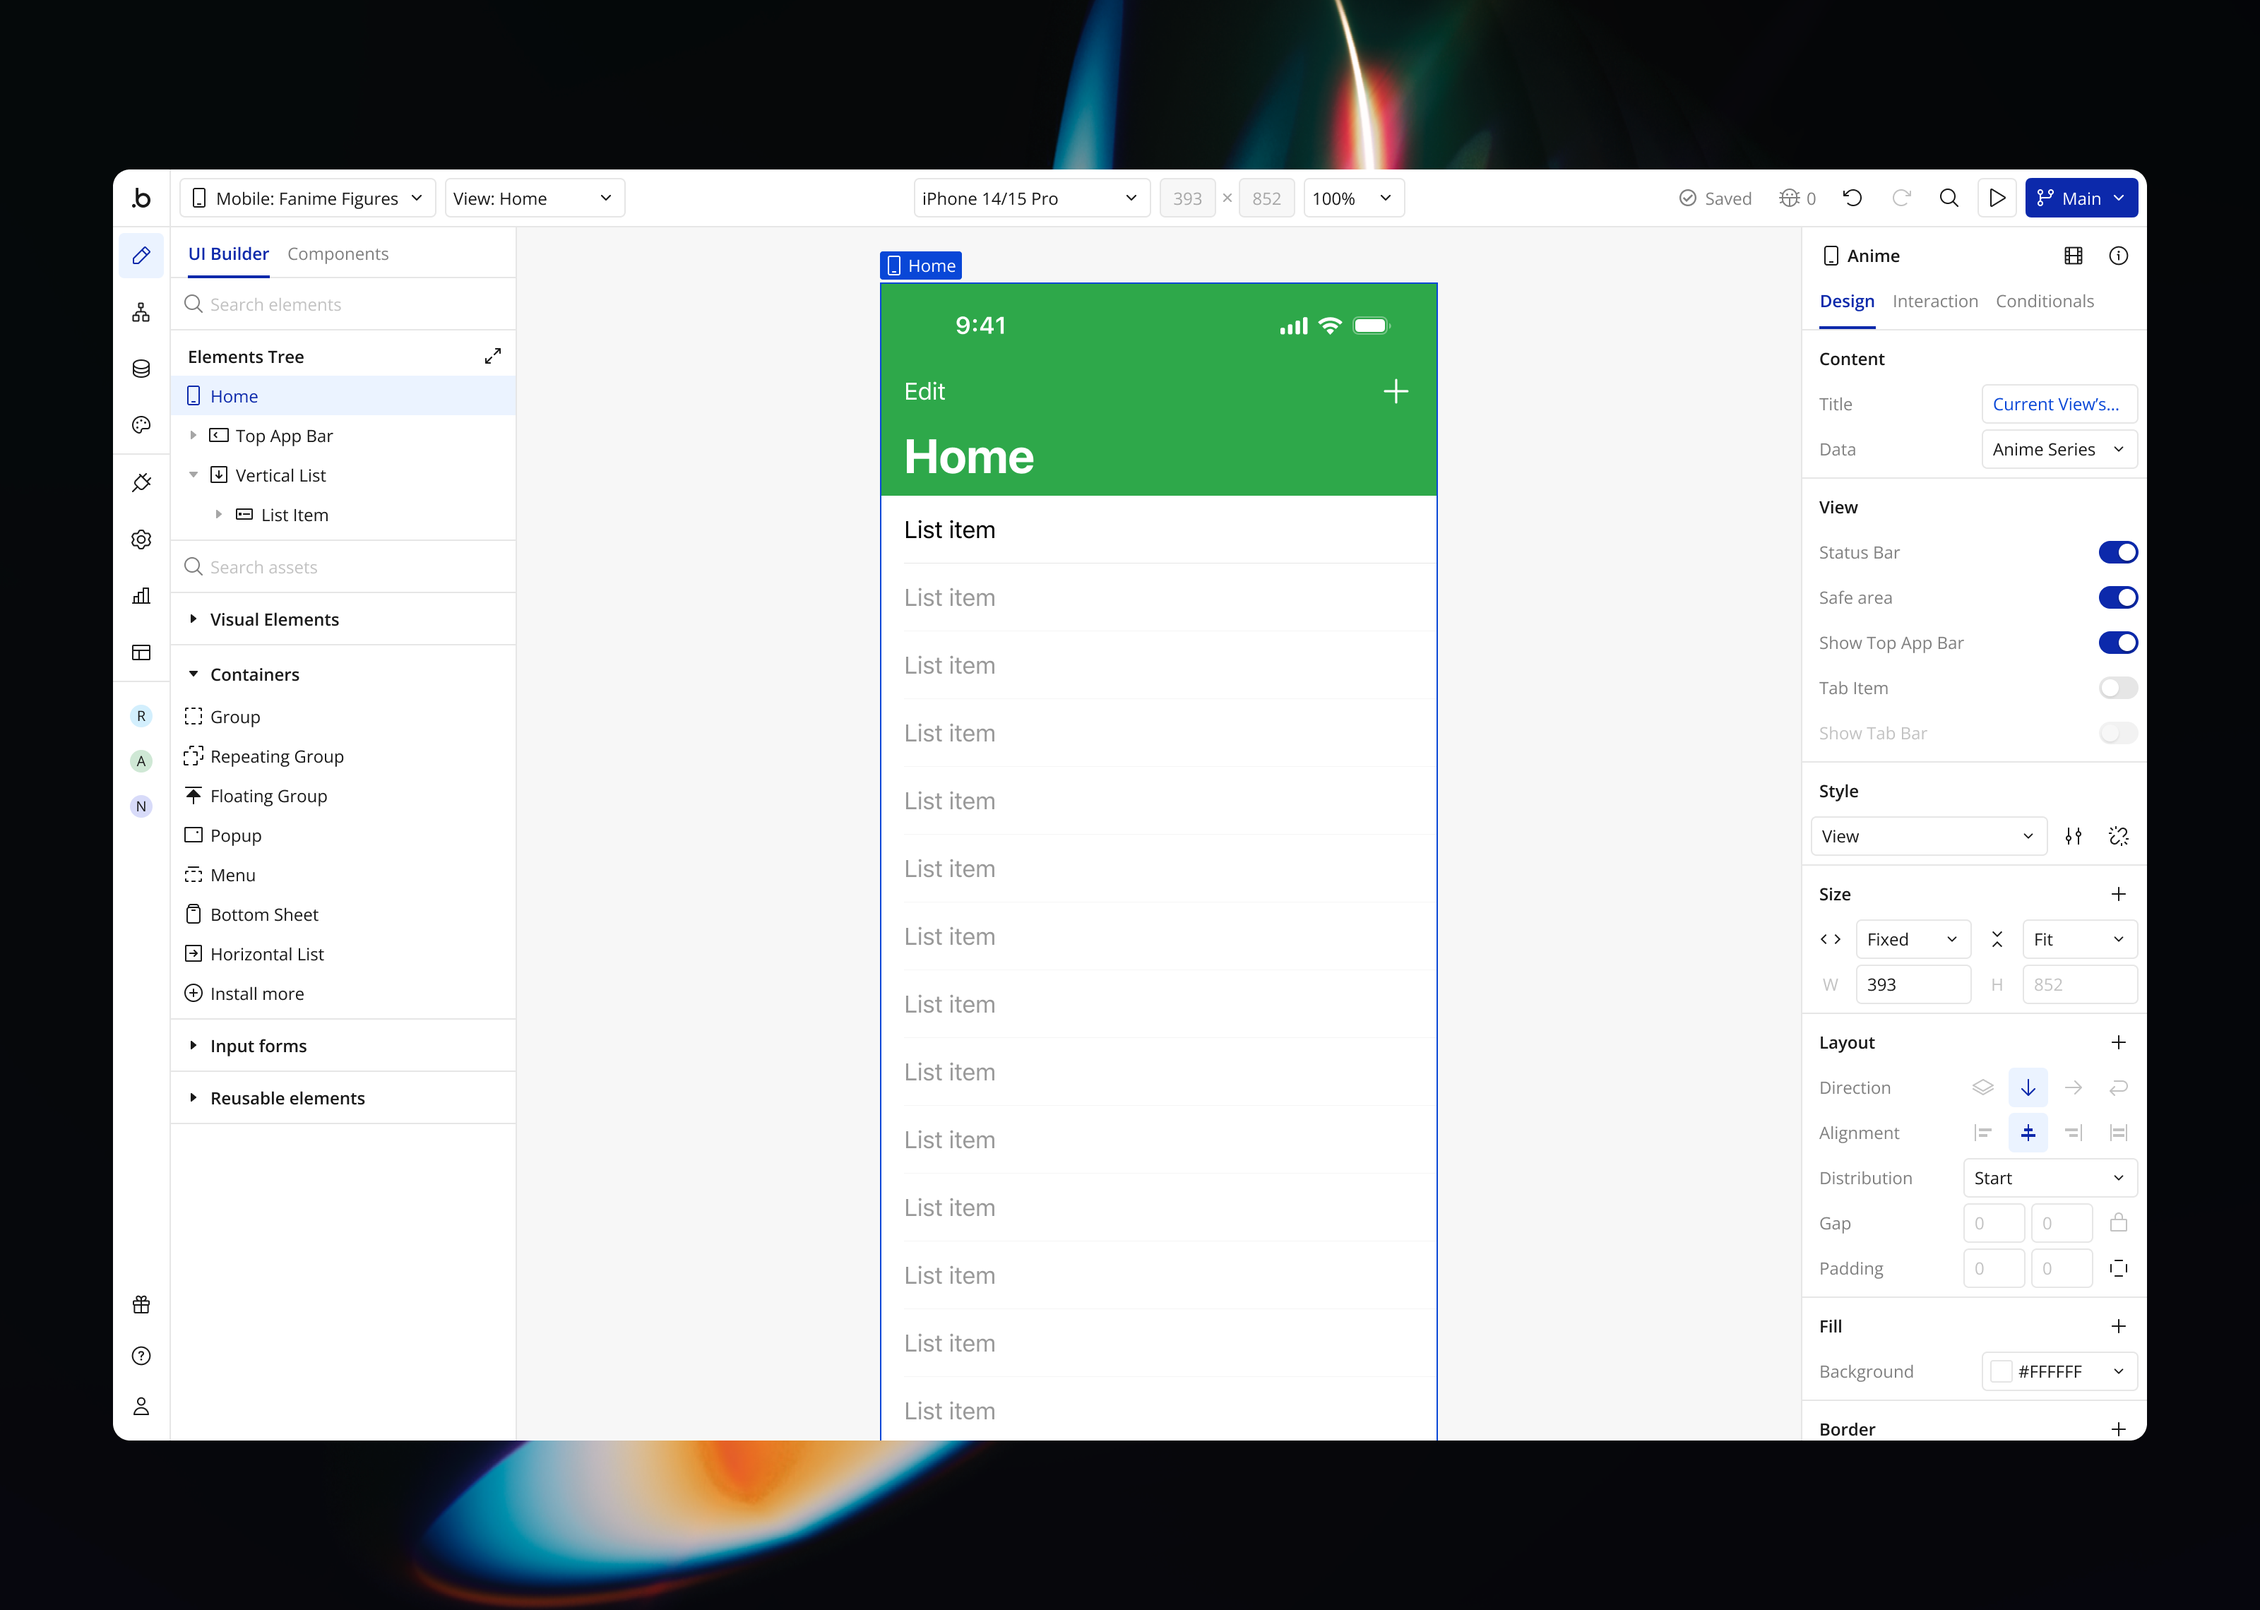
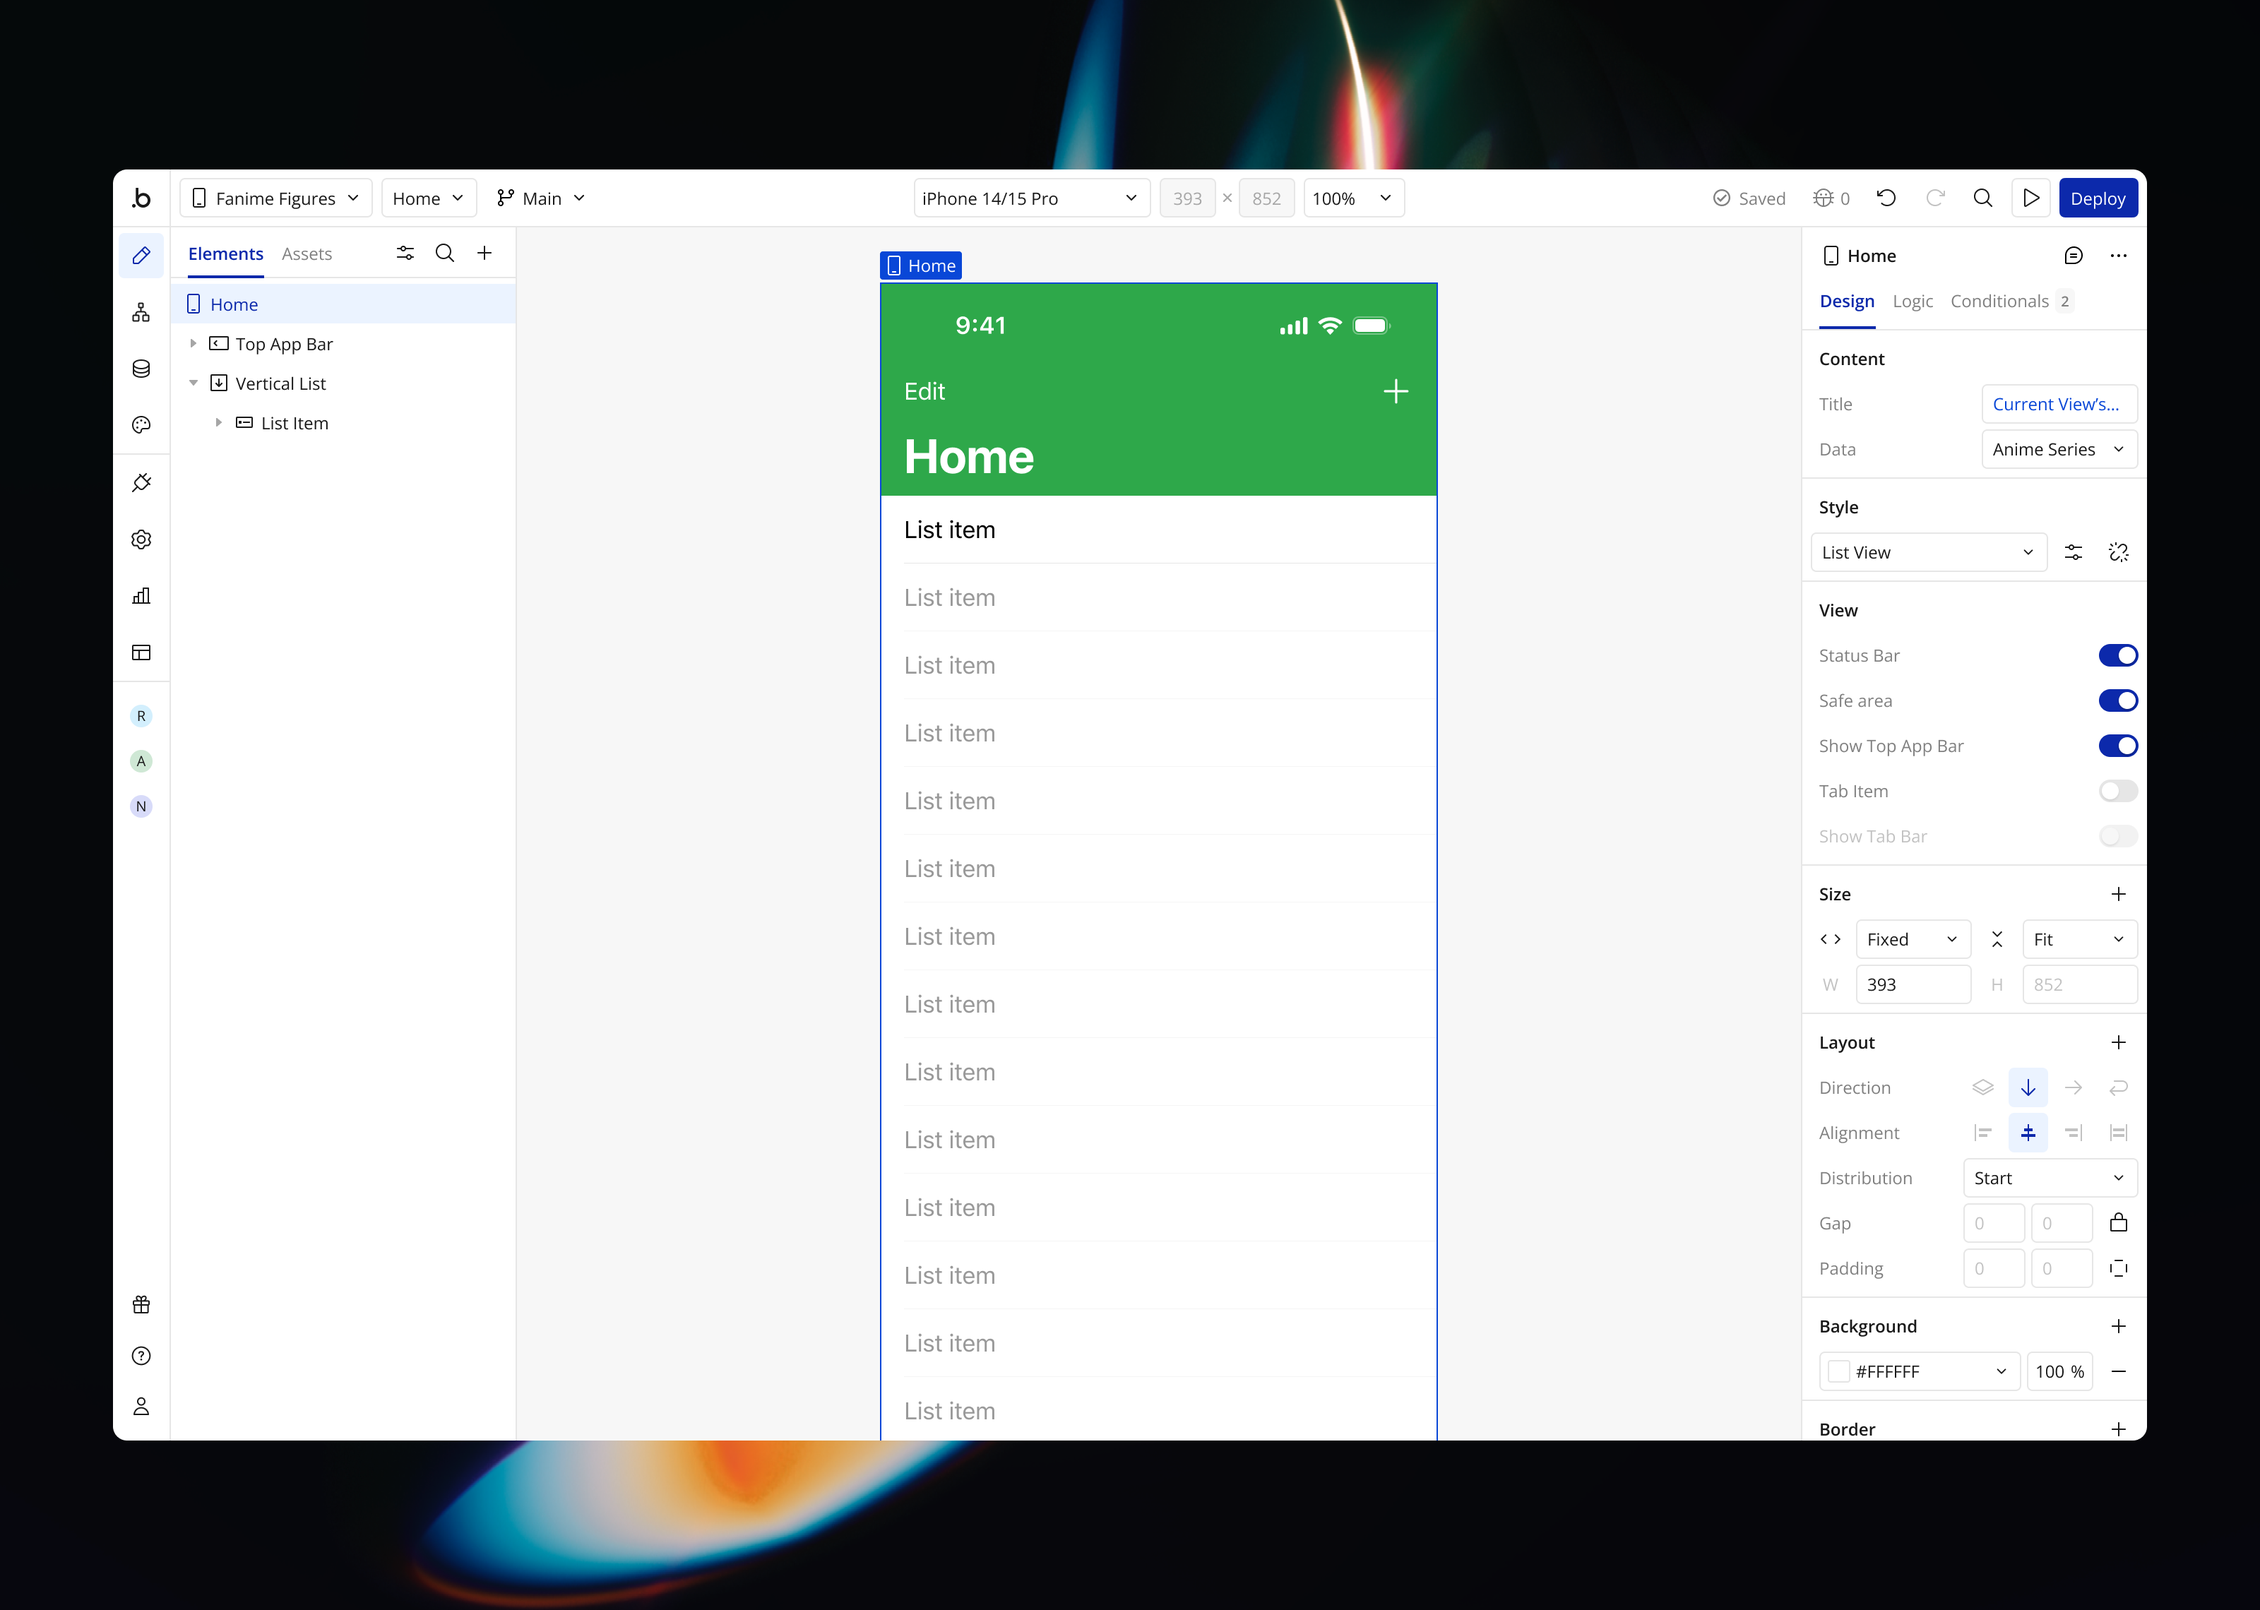
More small tweaks

diff --git a/_styles/scss/variables/_colors.scss b/_styles/scss/variables/_colors.scss
@@ -3,17 +3,17 @@ $backgroundColor: #FFFFFF;
 $text: #242424;
 $textBody: #3D3D3D;
 $textLight: #8A8A8A;
-$selection: #DBDBDB;
-$selectionbackground: #323232;
+$selection: #242424;
+$selectionbackground: #DBDBDB;
 $mediaBackground: #F5F5F5;
 $borderColor: #DBDBDB;
 
 // Dark color theme
 $darkbackgroundColor: #0A0A0A;
 $darktext: #F5F5F5;
-$darktextBody: #BDBDBD;
+$darktextBody: #D6D6D6;
 $darktextLight: #8A8A8A;
-$darkselection: #0A0A0A;
-$darkselectionbackground: #8A8A8A;
+$darkselection: #F5F5F5;
+$darkselectionbackground: #333333;
 $darkmediaBackground: #1C1C1C;
 $darkborderColor: #333333;

diff --git a/_styles/scss/components/_grid.scss b/_styles/scss/components/_grid.scss
@@ -17,7 +17,7 @@
     grid-template-columns: repeat(1fr);
     column-gap: $spacing-xxs;
     row-gap: $spacing-xs;
-    margin-top: $spacing-xs;
+    margin-top: $spacing-xxs;
 
     @media (min-width: $bp-xxxs) {
       grid-template-columns: repeat(2, 1fr);
@@ -75,7 +75,7 @@
       display: flex;
       align-items: top;
       gap: $spacing-tiny;
-      margin-top: $spacing-xs;
+      margin-top: $spacing-xxs;
 
       @media (min-width: $bp-xs) {
         gap: $spacing-xxs;

diff --git a/_styles/scss/mixins/__all.scss b/_styles/scss/mixins/__all.scss
@@ -25,7 +25,7 @@
   font-family: 'Geist SemiBold', sans-serif;
   font-weight: 600;
   font-size: 1.75rem;
-  line-height: 2.5rem;
+  line-height: 2.375rem;
   letter-spacing: -1px;
 
   @media (min-width: $bp-xs) {
@@ -53,7 +53,7 @@
   font-family: 'Geist', sans-serif;
   font-weight: 400;
   font-size: 1.375rem;
-  line-height: 2.25rem;
+  line-height: 2.125rem;
 
   @media (min-width: $bp-xs) {
     font-size: 1.75rem;

diff --git a/_styles/scss/components/_about.scss b/_styles/scss/components/_about.scss
@@ -11,7 +11,7 @@
   }
 
   &__list {
-    margin-top: $spacing-xxs;
+    margin-top: $spacing-tiny;
 
     @media (min-width: $bp-xs) {
       margin-top: $spacing-xxs;

diff --git a/_work/bubble-native-mobile-apps.md b/_work/bubble-native-mobile-apps.md
@@ -8,8 +8,8 @@ org: Bubble Native Mobile Apps Editor
 role: Lead Product Designer
 tenure: 2023–2024
 hero-image: /images/bubble/BubbleNativeMobileAppsEditorHero.png
-hero-image-tablet: /images/bubble/BubbleNativeMobileAppsEditorHeroTablet.png
-hero-image-mobile: /images/bubble/BubbleNativeMobileAppsEditorHeroMobile.png
+hero-image-tablet: /images/bubble/BubbleNativeMobileAppsEditorHero.png
+hero-image-mobile: /images/bubble/BubbleNativeMobileAppsEditorHero.png
 description-1: I led design for this 0–1 product offering within the existing no-code Bubble platform. I researched native iOS, Android, and React Native app development, designed the largest product expansion & UI redesign in Bubble’s history, and collaborated with engineering to build and launch the private Beta release.
 description-2: This tool enables new and existing Bubble customers from differing user profiles to build fully functioning native mobile apps. We gave users the tools to build with real native mobile patterns, and a worflow to publish their apps to the Apple App Store & Google Play Store; all without writing a single line of code.
 ---
@@ -55,7 +55,7 @@ Decide which views you want to be the root views in the bottom Tab Bar, customiz
 
 <div class="c-wrap__project c-wrap__project--preview" markdown=1>
 
-### Publish a new version, or OTA update to both app stores
+### Publish a new version or OTA update to both app stores
 With the current infrastructure of the Bubble platform, when you deploy a new version of your mobile app, both the web app and native mobile app are deployed at the same time. For native mobile, you can choose between an OTA (over the air) update or a new version—in which you can choose major, minor, or patch, and Bubble handles the semantic versioning for you.
 
 </div>
